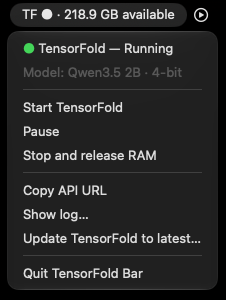
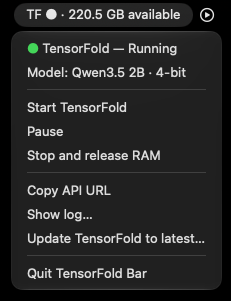
Add quick local benchmark and refresh screenshot

diff --git a/benchmark.rb b/benchmark.rb
@@ -1,0 +1,32 @@
+#!/usr/bin/ruby
+require 'net/http'
+require 'json'
+
+# A single local request; includes prompt processing and generation time.
+# No results or machine information are uploaded.
+begin
+  destination = ARGV.fetch(0)
+  uri = URI('http://127.0.0.1:8080/v1/chat/completions')
+  http = Net::HTTP.new(uri.host, uri.port, nil)
+  http.open_timeout = 5
+  http.read_timeout = 90
+  request = Net::HTTP::Post.new(uri.request_uri, 'Content-Type' => 'application/json')
+  request.body = JSON.generate(
+    model: 'local-model', stream: false, max_tokens: 64, temperature: 0,
+    messages: [{role: 'user', content: 'Explain how a rainbow forms. Write a detailed paragraph.'}]
+  )
+  started = Process.clock_gettime(Process::CLOCK_MONOTONIC)
+  response = http.request(request)
+  seconds = Process.clock_gettime(Process::CLOCK_MONOTONIC) - started
+  raise "HTTP #{response.code}: #{response.body[0, 600]}" unless response.is_a?(Net::HTTPSuccess)
+  data = JSON.parse(response.body)
+  tokens = Integer(data.fetch('usage').fetch('completion_tokens'))
+  raise 'Server returned no output tokens' unless tokens > 0 && seconds > 0
+  summary = format('Benchmark: %.1f tok/s · %.2f s · %d tokens', tokens / seconds, seconds, tokens)
+  File.write(destination + '.tmp', summary)
+  File.rename(destination + '.tmp', destination)
+  puts "#{summary} (end-to-end; prompt time included)"
+rescue StandardError => e
+  warn "Quick benchmark failed: #{e.message}"
+  exit 1
+end

diff --git a/README.md b/README.md
@@ -12,6 +12,7 @@ A macOS menu bar controller for [TensorFold](https://github.com/ashhart/TensorFo
 - Available RAM: estimated reclaimable memory (free + inactive + speculative pages), refreshed every three seconds. This is an estimate, not Activity Monitor's memory pressure metric.
 - Update TensorFold to latest: available when stopped; fetch the latest upstream Apple Silicon release, verify its published SHA-256 checksum, and replace the bundled engine.
 - Copy API URL and Show log.
+- Quick benchmark: while running, sends one local request for up to 64 output tokens and displays tokens/second, elapsed seconds, and actual output tokens in the menu. Timing includes prompt processing and generation; cached prompts can affect results. This is a quick end-to-end measurement, not a full benchmark suite. Results stay local. Stop or Quit cancels the benchmark.
 
 API URL: `http://127.0.0.1:8080/v1`; model name: `local-model`.
 Logs: `~/Library/Logs/TensorFoldBar.log`.
